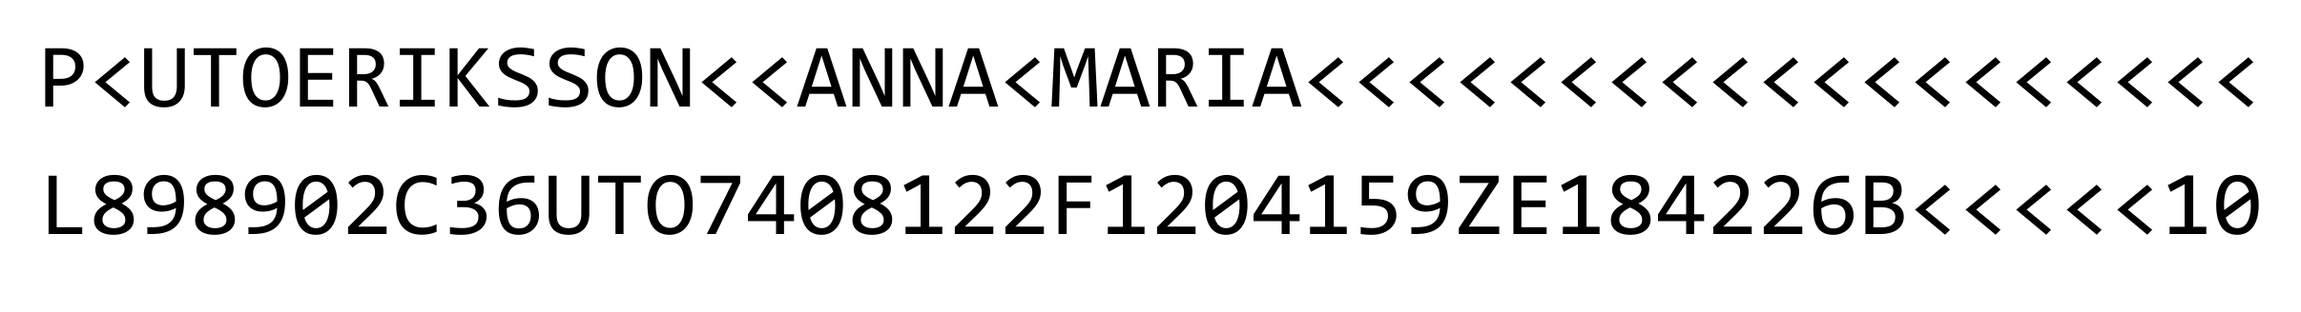
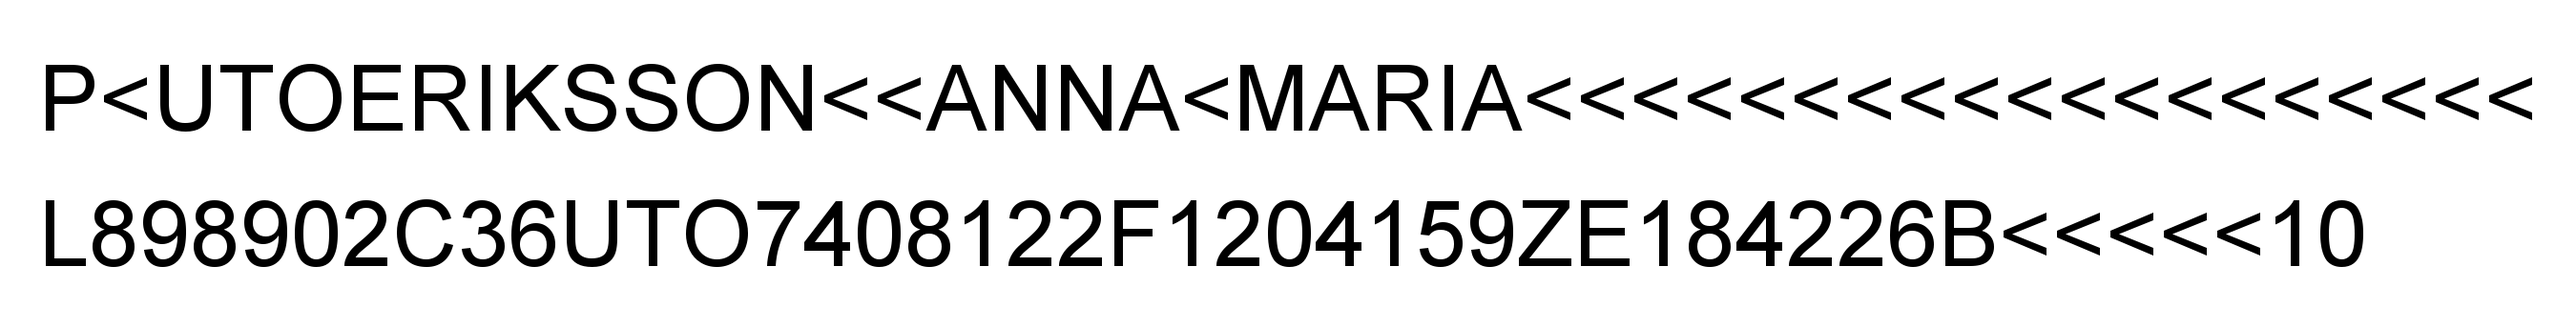
test(ocr): add end-to-end extraction test; fix deprecated ResponseEntity usage

Changed region(s): [[0.0, 0.5488, 0.995, 0.8232], [0.0, 0.1524, 0.995, 0.3963]]

diff --git a/backend/src/test/java/com/etka/veridoc/ocr/MrzExtractionEndToEndTest.java b/backend/src/test/java/com/etka/veridoc/ocr/MrzExtractionEndToEndTest.java
@@ -1,0 +1,128 @@
+package com.etka.veridoc.ocr;
+
+import com.etka.veridoc.mrz.MrzFormat;
+import com.etka.veridoc.mrz.MrzNormalizer;
+import com.etka.veridoc.mrz.Td3Parser;
+import org.junit.jupiter.api.DisplayName;
+import org.junit.jupiter.api.Test;
+
+import java.awt.Color;
+import java.awt.Font;
+import java.awt.Graphics2D;
+import java.awt.RenderingHints;
+import java.awt.image.BufferedImage;
+import java.time.LocalDate;
+import java.util.List;
+
+import static org.assertj.core.api.Assertions.assertThat;
+
+/**
+ * Exercises the full extraction pipeline against a rendered MRZ whose content
+ * is known in advance, so a failure identifies the exact character that broke
+ * rather than merely reporting that OCR got worse.
+ */
+@DisplayName("MRZ extraction, end to end")
+class MrzExtractionEndToEndTest {
+
+    private static final String LINE_1 =
+            "P<UTOERIKSSON<<ANNA<MARIA" + "<".repeat(19);
+    private static final String LINE_2 =
+            "L898902C36UTO7408122F1204159ZE184226B<<<<<10";
+
+    private static final LocalDate TODAY = LocalDate.of(2026, 8, 19);
+
+    @Test
+    @DisplayName("extracts two lines of the correct length")
+    void extractsCorrectLineStructure() {
+        BufferedImage image = render(LINE_1, LINE_2);
+
+        try (TesseractOcrEngine engine = TesseractOcrEngine.english()) {
+            List<String> raw = new MrzExtractor(engine).extract(image);
+            List<String> lines = MrzNormalizer.normalize(String.join("\n", raw));
+
+            assertThat(lines).hasSize(2);
+            assertThat(lines).allSatisfy(line -> assertThat(line).hasSize(44));
+            assertThat(MrzFormat.detect(lines)).contains(MrzFormat.TD3);
+        }
+    }
+
+    @Test
+    @DisplayName("reads the date of birth accurately enough to pass its check digit")
+    void readsBirthDateCorrectly() {
+        // OCR accuracy depends on the rendering font matching the calibrated
+        // ink threshold. On a machine without Consolas this asserts nothing
+        // meaningful, so skip rather than report a false regression.
+        org.junit.jupiter.api.Assumptions.assumeTrue(
+                new Font("Consolas", Font.PLAIN, 96).getFamily().equalsIgnoreCase("Consolas"),
+                "Consolas not available; OCR accuracy assertion skipped");
+
+        BufferedImage image = render(LINE_1, LINE_2);
+
+        try (TesseractOcrEngine engine = TesseractOcrEngine.english()) {
+            List<String> raw = new MrzExtractor(engine).extract(image);
+            List<String> lines = MrzNormalizer.normalize(String.join("\n", raw));
+
+            var verification = new Td3Parser().verify(lines);
+
+            assertThat(verification.results())
+                    .containsEntry(com.etka.veridoc.mrz.MrzVerification.MrzField.DATE_OF_BIRTH, true);
+
+            var data = new Td3Parser().parse(lines, TODAY);
+            assertThat(data.dateOfBirth()).contains(LocalDate.of(1974, 8, 12));
+            assertThat(data.isAtLeastAge(18, TODAY)).isTrue();
+        }
+    }
+
+    /**
+     * Renders MRZ lines for testing.
+     *
+     * <p>Uses Consolas where available, because the filler ink-density
+     * threshold in {@link FixedWidthLineReader} was calibrated against it.
+     * Density-based filler detection is inherently font-dependent, so
+     * rendering with an uncalibrated font produces misclassified fillers and a
+     * failure that says nothing about the pipeline.
+     */
+    private static BufferedImage render(String... lines) {
+        Font font = new Font("Consolas", Font.PLAIN, 96);
+        if (!font.getFamily().equalsIgnoreCase("Consolas")) {
+            font = new Font(Font.MONOSPACED, Font.PLAIN, 96);
+        }
+
+        BufferedImage probe = new BufferedImage(1, 1, BufferedImage.TYPE_BYTE_GRAY);
+        Graphics2D probeGraphics = probe.createGraphics();
+        probeGraphics.setFont(font);
+        var metrics = probeGraphics.getFontMetrics();
+
+        int widest = 0;
+        for (String line : lines) {
+            widest = Math.max(widest, metrics.stringWidth(line));
+        }
+        int lineHeight = metrics.getHeight();
+        probeGraphics.dispose();
+
+        int margin = 40;
+        int spacing = 20;
+        int width = widest + 2 * margin;
+        int height = lines.length * lineHeight + (lines.length - 1) * spacing + 2 * margin;
+
+        BufferedImage image = new BufferedImage(width, height, BufferedImage.TYPE_BYTE_GRAY);
+        Graphics2D graphics = image.createGraphics();
+        try {
+            graphics.setRenderingHint(RenderingHints.KEY_TEXT_ANTIALIASING,
+                    RenderingHints.VALUE_TEXT_ANTIALIAS_ON);
+            graphics.setColor(Color.WHITE);
+            graphics.fillRect(0, 0, width, height);
+            graphics.setColor(Color.BLACK);
+            graphics.setFont(font);
+
+            int baseline = margin + metrics.getAscent();
+            for (String line : lines) {
+                graphics.drawString(line, margin, baseline);
+                baseline += lineHeight + spacing;
+            }
+        } finally {
+            graphics.dispose();
+        }
+        return image;
+    }
+}

diff --git a/backend/src/main/java/com/etka/veridoc/api/DocumentController.java b/backend/src/main/java/com/etka/veridoc/api/DocumentController.java
@@ -6,7 +6,6 @@ import jakarta.validation.constraints.Max;
 import jakarta.validation.constraints.Min;
 
 import org.springframework.http.HttpStatus;
-import org.springframework.http.HttpStatus;
 import org.springframework.http.MediaType;
 import org.springframework.http.ResponseEntity;
 import org.springframework.validation.annotation.Validated;
